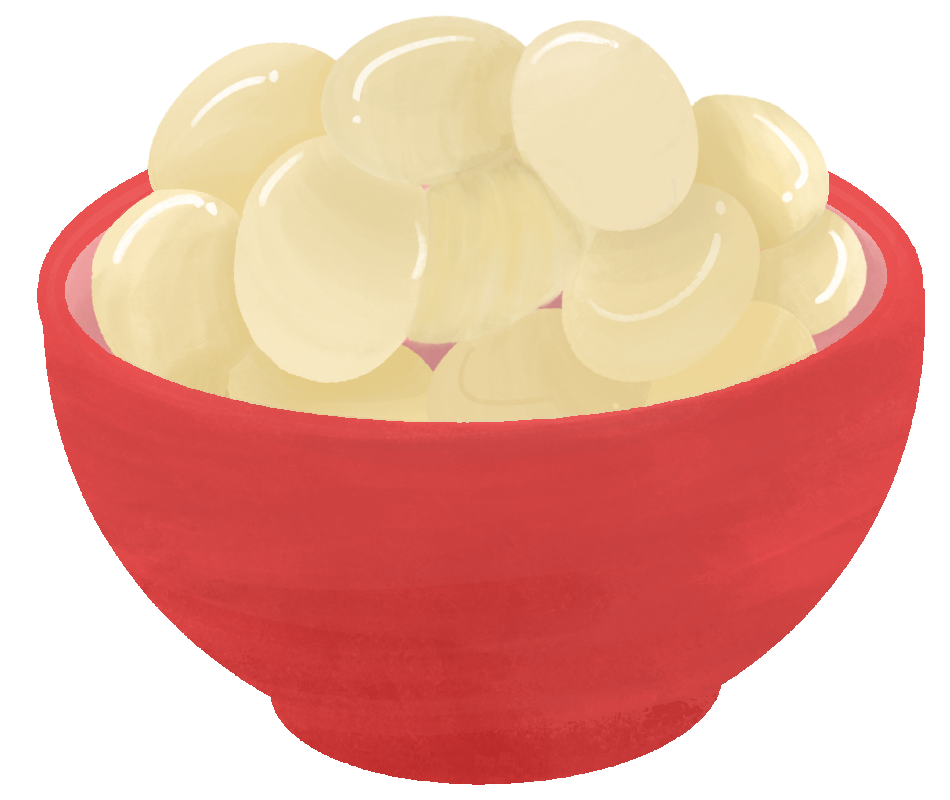
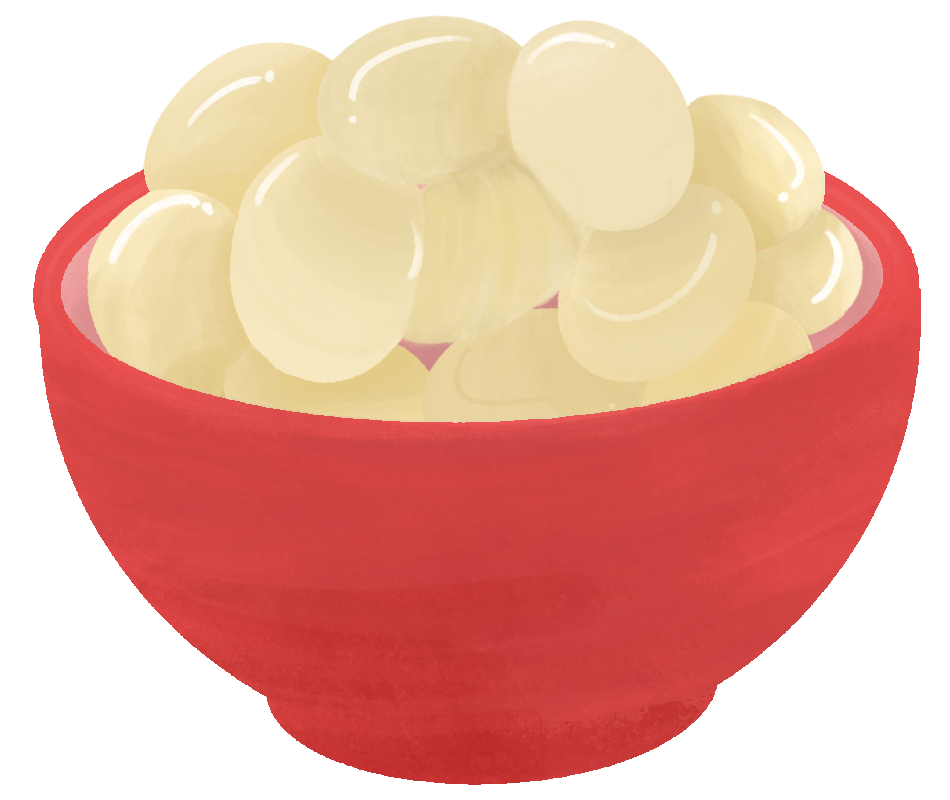
feat: Add images and intro speech bubbles for drag-and-drop game on halaman 7

diff --git a/izan/js/book-data.js b/izan/js/book-data.js
@@ -136,7 +136,16 @@ const bookData = {
     // halaman 7: GAME 2 - Teteskan sirup!
     {
       type: "drag-drop-game",
-      bgColor: "#F7FBFB",
+      bgColor: "#FFFDF7",
+      introImage: "images/halaman-7/cerita.png",
+      introSpeechBubbles: [
+        {
+          text: "Izan siap mencampur sirup!",
+          audio: "audio/halaman-7-intro.mp3",
+          top: "10%",
+          left: "55%"
+        }
+      ],
       title: "Bantu Izan Teteskan Sirup, Yuk!",
       subtitle: "Tuang Botol Sirup Sesuai Warna Mangkok Kolang-Kaling",
       speechBubbles: [
@@ -185,7 +194,7 @@ const bookData = {
 
     // halaman 9: GAME 3 - Cari yang sama!
     {
-      bgColorLeft: "#FCFAF5",
+      bgColorLeft: "#FFFDF7",
       bgColorRight: "#FCFAF5",
       left: {
         type: "quiz-question",

diff --git a/izan/js/render.js b/izan/js/render.js
@@ -208,9 +208,19 @@ function renderSpreadHTML(spread, index) {
     `).join('');
 
     const speechHtml = renderSpeechBubbles(spread.speechBubbles);
+    const introSpeechHtml = spread.introSpeechBubbles ? renderSpeechBubbles(spread.introSpeechBubbles) : '';
+
+    const introHtml = spread.introImage ? `
+      <div class="drag-drop-intro-overlay" style="position: absolute; top: 0; left: 0; width: 100%; height: 100%; background: ${spread.bgColor || '#FFFDF7'}; z-index: 50; display: flex; flex-direction: column; align-items: center; justify-content: center; transition: opacity 0.3s ease;">
+        <img src="${spread.introImage}" class="full-bleed-image" style="position: absolute; top: 0; left: 0; width: 100%; height: 100%; object-fit: cover;" onerror="handleImageError(this, '${spread.introImage}')">
+        ${introSpeechHtml}
+        <button class="bouncy-btn" style="position: absolute; bottom: 50px; font-size: 1.8rem; padding: 15px 40px; z-index: 51; box-shadow: 0 10px 25px rgba(0,0,0,0.3);" onclick="this.parentElement.style.opacity='0'; setTimeout(() => this.parentElement.style.display='none', 300); if (typeof sounds !== 'undefined' && sounds.playPop) sounds.playPop();">Mulai Main!</button>
+      </div>
+    ` : '';
 
     return `
       <div class="page-spread-container drag-drop-spread" style="background: ${spread.bgColor || '#FFFDF7'}; width: 100%; height: 100%; display: flex; flex-direction: column; align-items: center; justify-content: flex-start; box-sizing: border-box; padding: 40px 60px; user-select: none; position: relative;">
+        ${introHtml}
         ${speechHtml}
         <div class="story-text-container" style="margin-bottom: 20px; width: 100%; border: none; box-shadow: none; background: transparent; padding: 0; flex-direction: column;">
           <h2 style="font-family: var(--font-title); font-size: 2.8rem; line-height: 1.4; margin: 0; text-align: center; color: var(--color-wood); text-shadow: 0 4px 0px rgba(255, 255, 255, 0.8), 3px 6px 0px rgba(139, 90, 43, 0.15); letter-spacing: 1px;">

diff --git a/izan/js/preload.js b/izan/js/preload.js
@@ -10,6 +10,12 @@ function preloadAudio() {
         });
       }
 
+      if (spread.introSpeechBubbles) {
+        spread.introSpeechBubbles.forEach(bubble => {
+          if (bubble.audio) audioToLoad.push(bubble.audio);
+        });
+      }
+
       // Periksa audio di left/right jika ada yang menggunakan speechBubbles
       if (spread.left && spread.left.speechBubbles) {
         spread.left.speechBubbles.forEach(bubble => {
@@ -43,6 +49,7 @@ function preloadImages() {
   if (typeof bookData !== 'undefined' && bookData.spreads) {
     bookData.spreads.forEach(spread => {
       if (spread.image) imagesToLoad.push(spread.image);
+      if (spread.introImage) imagesToLoad.push(spread.introImage);
       if (spread.left && spread.left.image) imagesToLoad.push(spread.left.image);
       if (spread.right && spread.right.image) imagesToLoad.push(spread.right.image);
       if (spread.bgImage) imagesToLoad.push(spread.bgImage);

diff --git a/izan/js/drag-drop.js b/izan/js/drag-drop.js
@@ -99,7 +99,7 @@ window.initDragDrop = function (container) {
         // Snap back
         currentX = 0;
         currentY = 0;
-        item.style.transform = `translate(0px, 0px) scale(1) rotate(35deg)`;
+        item.style.transform = `translate(0px, 0px) scale(1) rotate(0deg)`;
       }
     };
 